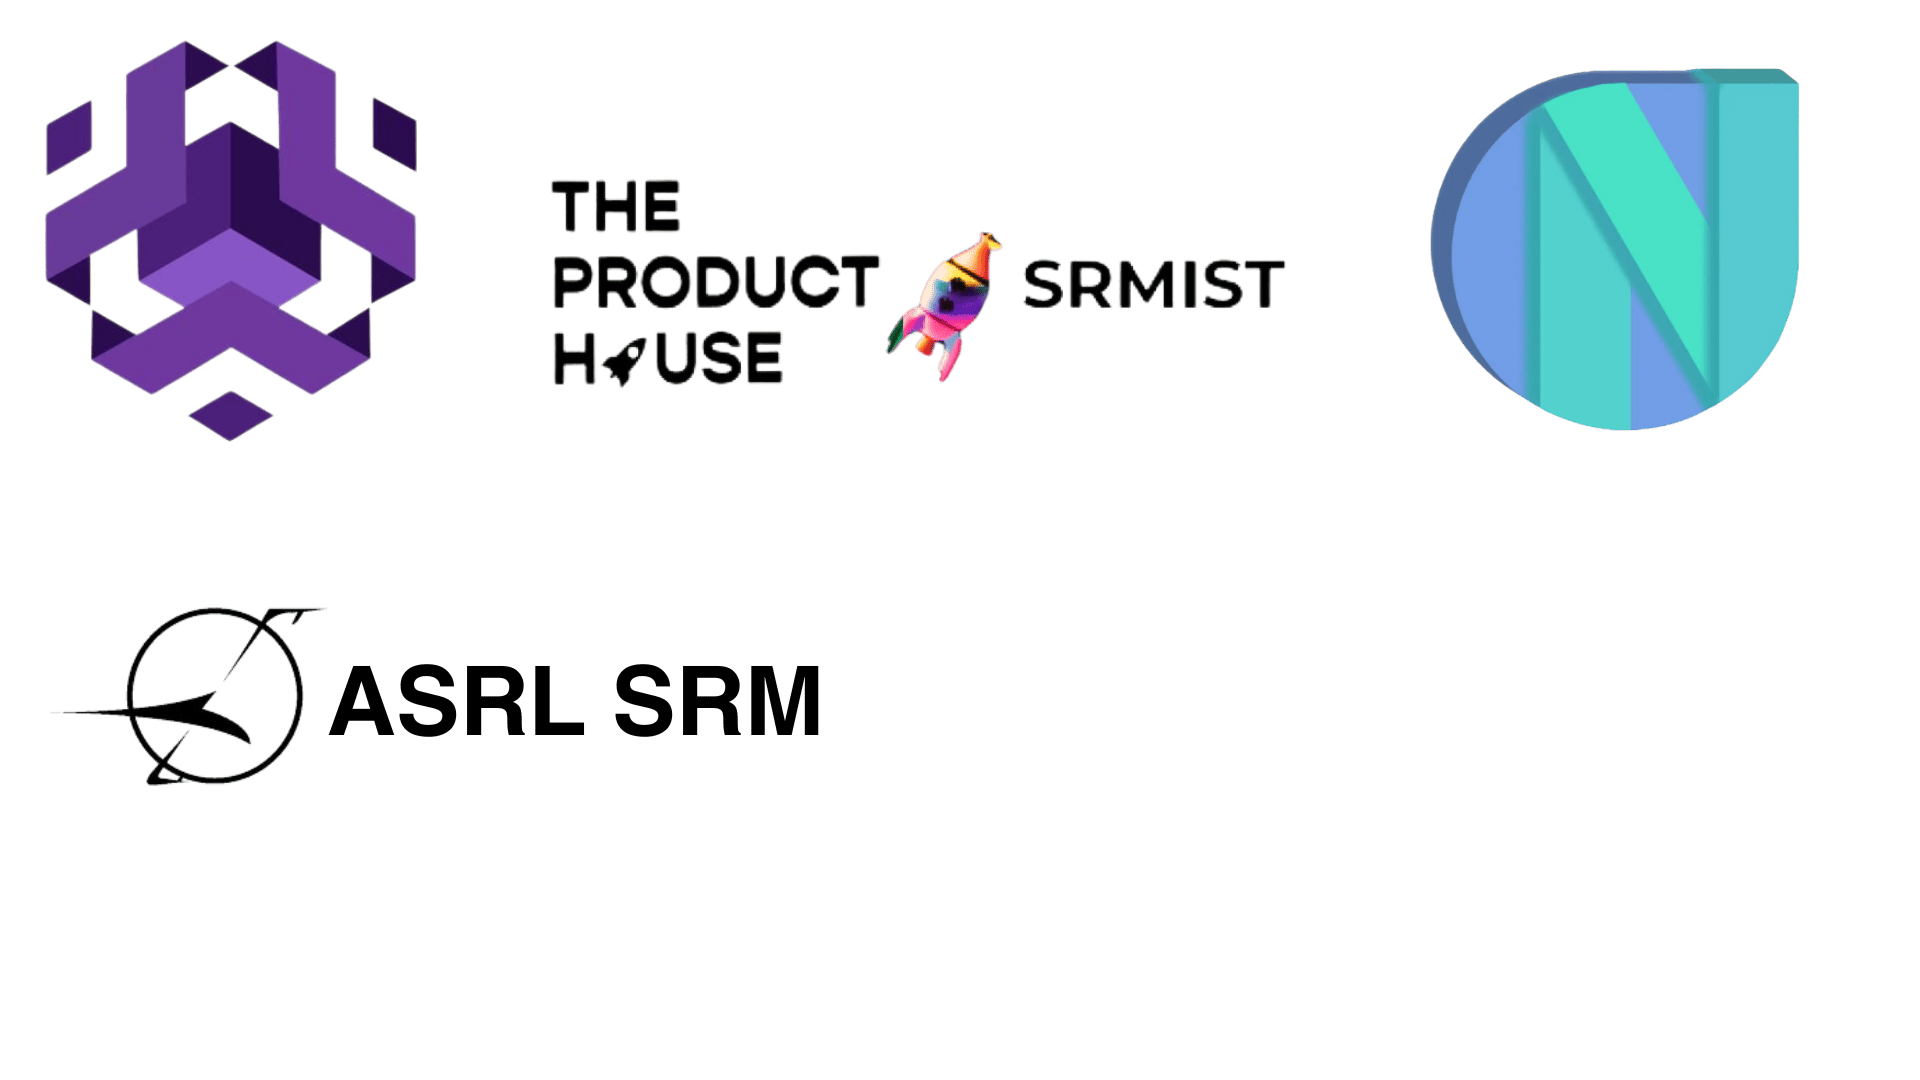
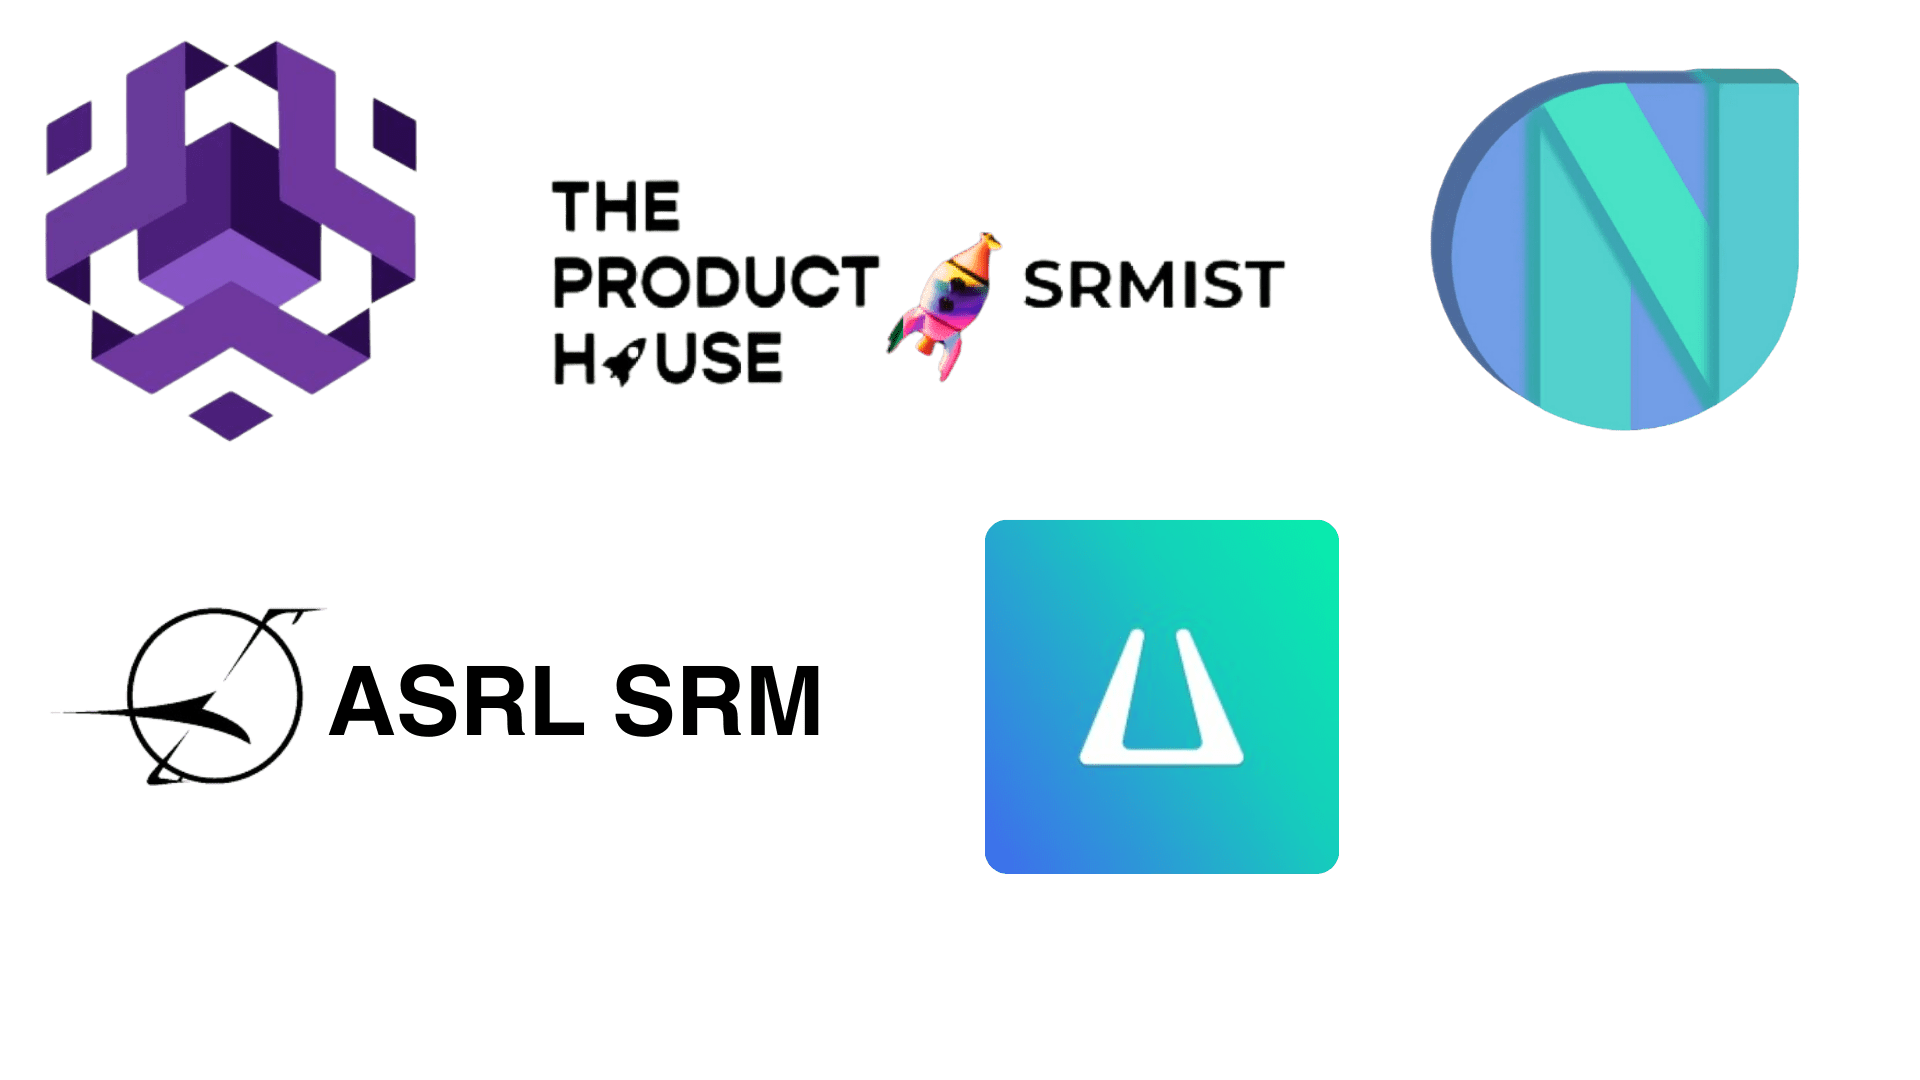
a

Changed region(s): [[0.5, 0.4583, 0.7188, 0.825], [0.4688, 0.2139, 0.5312, 0.3361]]

diff --git a/src/pages/landing/Landing.js b/src/pages/landing/Landing.js
@@ -210,6 +210,7 @@ function Landing() {
   <li className="mb-2">2. The Product House x SRMIST</li>
   <li className="mb-2">3. Aerospace Systems Research Laboratory </li>
   <li className="mb-2">4. Newton School Coding Club SRM </li>
+  <li className="mb-2">5. Liftoff </li>
   </ol>
         </div>
       </section>
